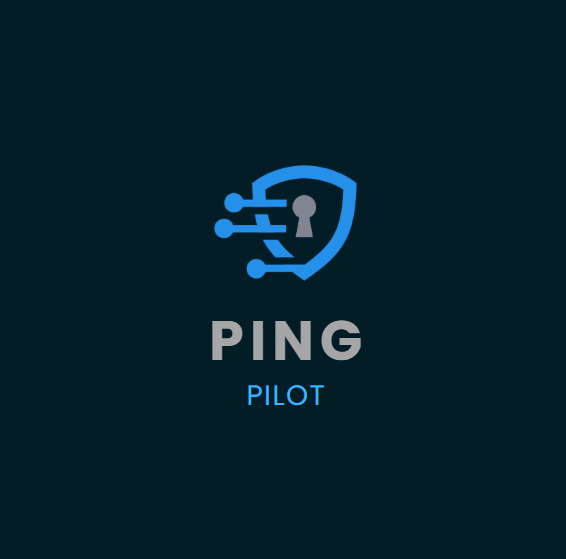
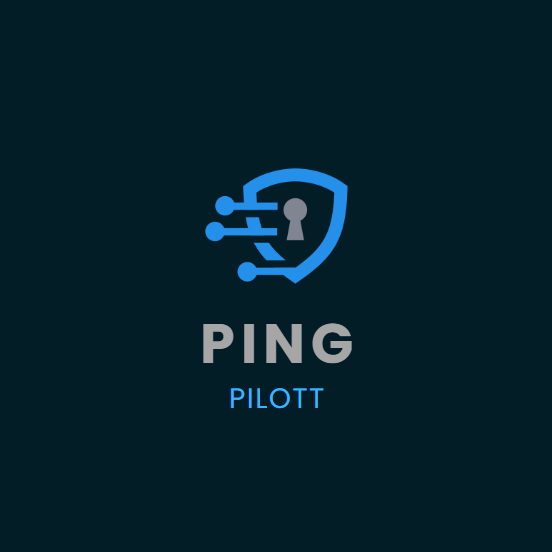
minor fix

Changed region(s): [[0.3696, 0.2772, 0.6467, 0.5236], [0.3696, 0.5543, 0.6467, 0.7391]]

diff --git a/app/components/Layout/Navbar.js b/app/components/Layout/Navbar.js
@@ -40,10 +40,11 @@ const Navbar = () => {
             <div className="hidden md:flex flex-col w-64 bg-[#031D27] text-white h-screen fixed">
                 <div className="p-5 border-b border-gray-700">
                     <div className="flex items-center">
-                        <div className="w-10 h-10 bg-blue-600 rounded-lg flex items-center justify-center mr-3">
+                        {/* <div className="w-10 h-10 bg-blue-600 rounded-lg flex items-center justify-center mr-3">
                             <Server size={24} />
-                        </div>
-                        <h1 className="text-xl font-bold">Ping Pilott</h1>
+                        </div> */}
+                        {/* <h1 className="text-xl font-bold">Ping Pilott</h1> */}
+                        <img src='/logo.png'/>
                     </div>
                 </div>
 

diff --git a/app/layout.js b/app/layout.js
@@ -14,8 +14,13 @@ const geistMono = Geist_Mono({
 });
 
 export const metadata = {
-  title: "Create Next App",
-  description: "Generated by create next app",
+  title: "Ping Pilott",
+  description: "Ping Pilott is a smart server health monitoring tool that checks server uptime, detects downtime instantly, and keeps your infrastructure reliable with real-time status updates. Perfect for developers, sysadmins, and businesses.",
+  icons: {
+    icon: [
+      { url: "/favicon.png", type: "image/png" }
+    ],
+  },
 };
 
 export default function RootLayout({ children }) {
